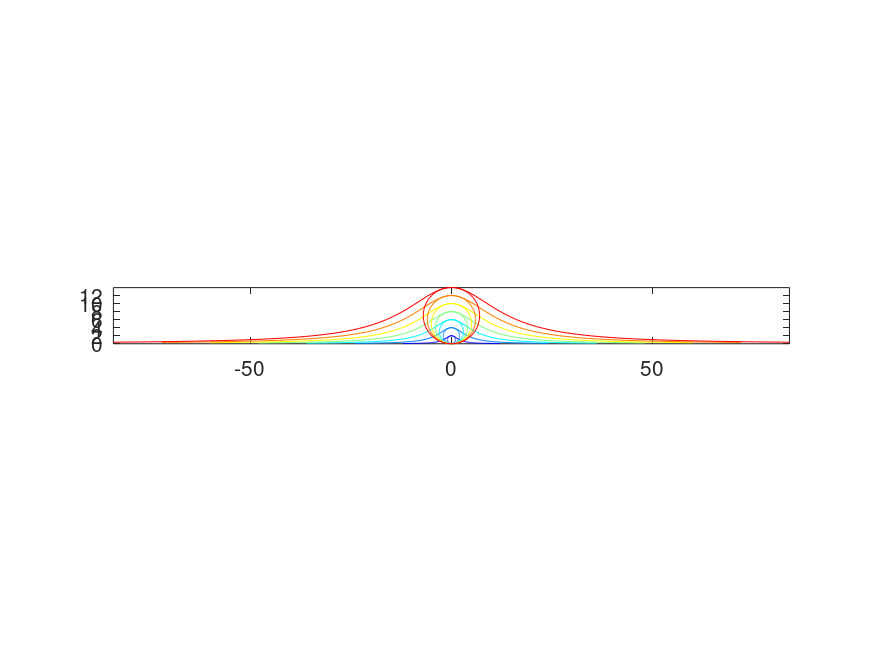
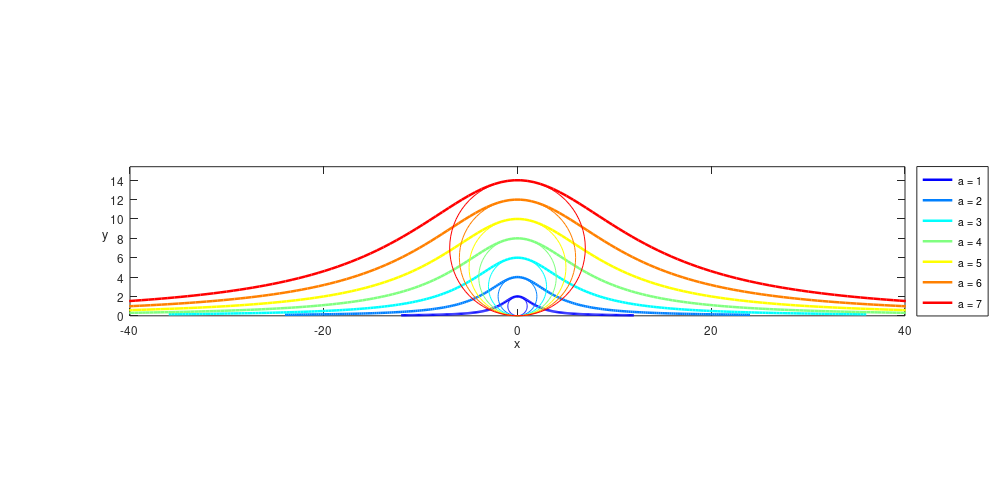
Improve graphics

Changed region(s): [[0.0929, 0.33, 0.9908, 0.69]]

diff --git a/agnesi.m b/agnesi.m
@@ -1,11 +1,18 @@
-function y = agnesi(x,a,rgb)
+function y= agnesi(x,a,rgb)
   %Define Agnesi function
   y = 8*a.^3./(x.^2+4*a.^2);
- plot(x,y, 'color', rgb)
+  txt = ['a = ', num2str(a)];
+  h = plot(x, y, 'linewidth', 2.5, 'color', rgb,'DisplayName',txt);
+  xlabel('x')
+  ylabel('y')
+  set(get(gca,'ylabel'),'rotation',0)
+  legend('location', 'eastoutside', 'fontsize', 12);
+  %Define a circle with radius = a
   hold on
   x0 = 0;
   y0 = a;
   r = a;
-  h = drawCircle(x0,y0,r, 'color', rgb)
-axis([min(x) max(x) 0 max(y)]);
-daspect ([1 1])
+  hc = drawCircle(x0, y0, r, 'color', rgb, 'HandleVisibility','off');
+  %plot configurations
+  axis([-40 40 0 max(y)*1.1]);
+  daspect ([1 1]);

diff --git a/main.m b/main.m
@@ -1,13 +1,14 @@
 %pkg install "https://downloads.sourceforge.net/project/octave/Octave%20Forge%20Packages/Individual%20Package%20Releases/matgeom-1.2.3.tar.gz"
 %pkg load matgeom
-close all
+close all; clear all; clc
 %Define the vector of a
-a = [1:7]
+a = [1:7];
 %Define the colormap
-colmap =jet(length(a));
+colmap = jet(length(a));
+%Open new figure
 fig = figure(1)
 for i = 1:length(a)
-  x = linspace(-12*a(i),12*a(i),100);
-  agnesi(x,a(i),colmap(i,:));
+  x = linspace(-12*a(i),12*a(i),250);
+  agnesi(x, a(i), colmap(i,:));
 end
-print (fig, "Agnesi_curves.png");
+print (fig, "Agnesi_curves.png","-S1000,500");
